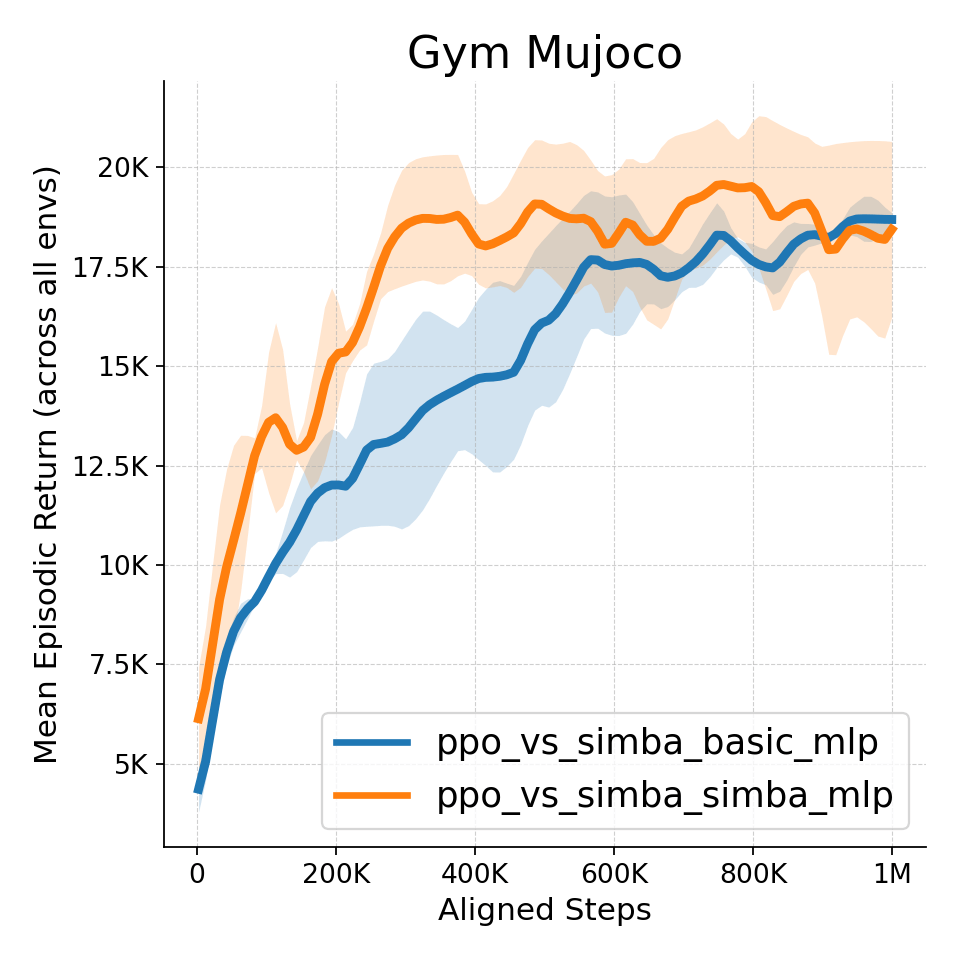
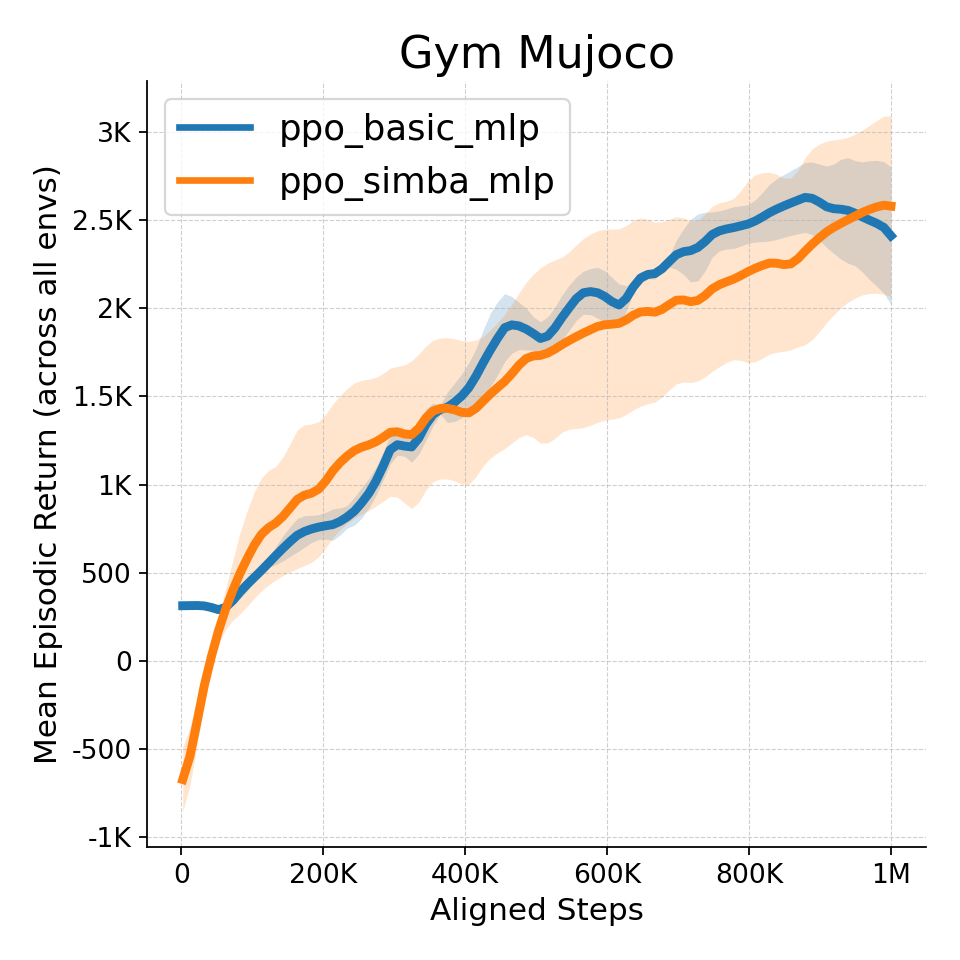
v0.5 fix gym-mujoco plots

diff --git a/assets/figures/plot_commands.md b/assets/figures/plot_commands.md
@@ -1,6 +1,15 @@
 ## 日志数据下载
 1. [sac_simba_mujoco_dmc_logs.tar.xz](https://ecnhf41t16x1.feishu.cn/file/CjHMbc2NqoiNC5x0AyHcAkDfn1g)
 2. [ppo_simba_atari_mujoco_dmc_logs.tar.xz](https://ecnhf41t16x1.feishu.cn/file/HS8XbjVDnoM39exe8J1cudJ1nkc)
+
+注意: 下面在gym-mujoco上的测试均没有绘制`HumanoidStandup-v4 InvertedPendulum-v4 Pusher-v5`这三个环境，因为奖励图像差异是在过大
+
+<details>
+    <summary>gym-mujoco上三个极端奖励环境 (左图为不加, 右图为全部环境)</summary>
+    <img src="../../assets/figures/sac_ppo_simba/sac_ppo_simba_gym_mujoco_summary.png" width="45%"/>
+    <img src="../../assets/figures/sac_ppo_simba/sac_ppo_simba_gym_mujoco_all_summary.png" width="45%"/>
+</details>
+
 ## ppo
 ### atari
 ```bash
@@ -12,9 +21,9 @@ python demos/common/plot_tb_graphs.py --avail-algos ppo --ignore-env-suit-name \
 ```bash
 python demos/common/plot_tb_graphs.py --avail-algos ppo --ignore-env-suit-name \
     --avail-suits gymnasium \
-    --avail-envs Ant-v4 HalfCheetah-v4 Hopper-v4 Humanoid-v4 \
-    HumanoidStandup-v4 InvertedPendulum-v4 Pusher-v5 Walker2d-v4 \
+    --avail-envs Ant-v4 HalfCheetah-v4 Hopper-v4 Humanoid-v4 Walker2d-v4 \
     --plot-summary --title "Gym Mujoco"
+    # HumanoidStandup-v4 InvertedPendulum-v4 Pusher-v5 \
 ```
 ### dmc hard
 ```bash
@@ -33,10 +42,10 @@ python demos/common/plot_tb_graphs_compare_env_suits.py --logdir ./logs/ppo/basi
 ```bash
 python demos/common/plot_tb_graphs.py --avail-algos sac --ignore-env-suit-name \
     --avail-suits gymnasium \
-    --avail-envs Ant-v4 HalfCheetah-v4 Hopper-v4 Humanoid-v4 \
-    HumanoidStandup-v4 InvertedPendulum-v4 Pusher-v5 Walker2d-v4 \
+    --avail-envs Ant-v4 HalfCheetah-v4 Hopper-v4 Humanoid-v4 Walker2d-v4 \
     --avail-family-algos basic_continuous_mlp simba_continuous_mlp \
     --plot-summary --title "Gym Mujoco"
+    # HumanoidStandup-v4 InvertedPendulum-v4 Pusher-v5 \
 ```
 ### dmc easy
 ```bash
@@ -58,10 +67,12 @@ python demos/common/plot_tb_graphs.py --avail-algos sac --ignore-env-suit-name \
 ## sac vs ppo vs simba
 ### gym mujoco
 ```bash
-python demos/common/plot_tb_graphs.py --avail-algos sac ppo_vs_simba_continuous --ignore-env-suit-name \
+python demos/common/plot_tb_graphs.py --avail-algos sac ppo --ignore-env-suit-name \
     --avail-suits gymnasium \
+    --avail-envs Ant-v4 HalfCheetah-v4 Hopper-v4 Humanoid-v4 Walker2d-v4 \
     --avail-family-algos basic_continuous_mlp simba_continuous_mlp \
     --plot-summary --title "Gym Mujoco"
+    # HumanoidStandup-v4 InvertedPendulum-v4 Pusher-v5 \
 ```
 ### dmc hard
 ```bash
